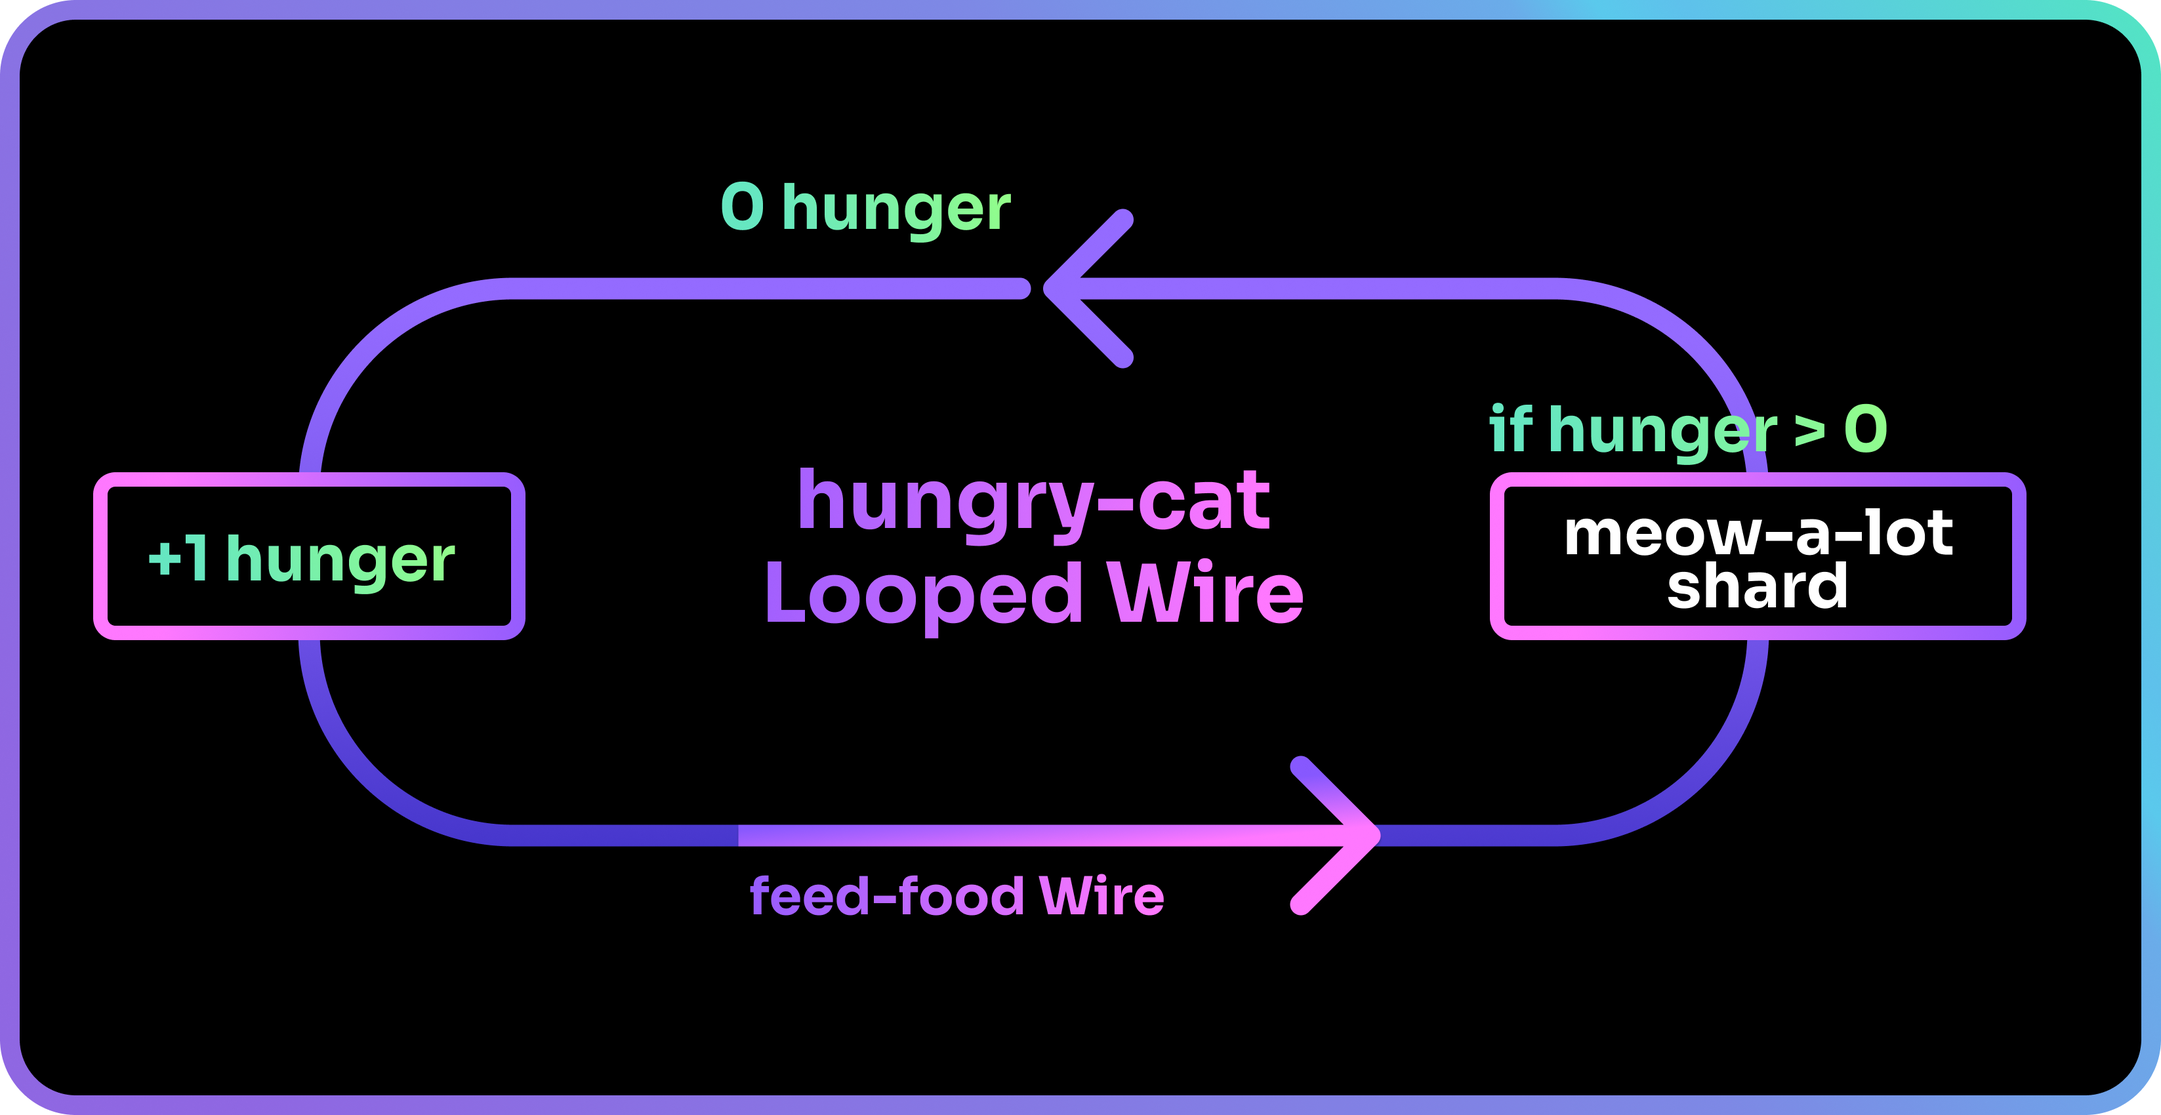
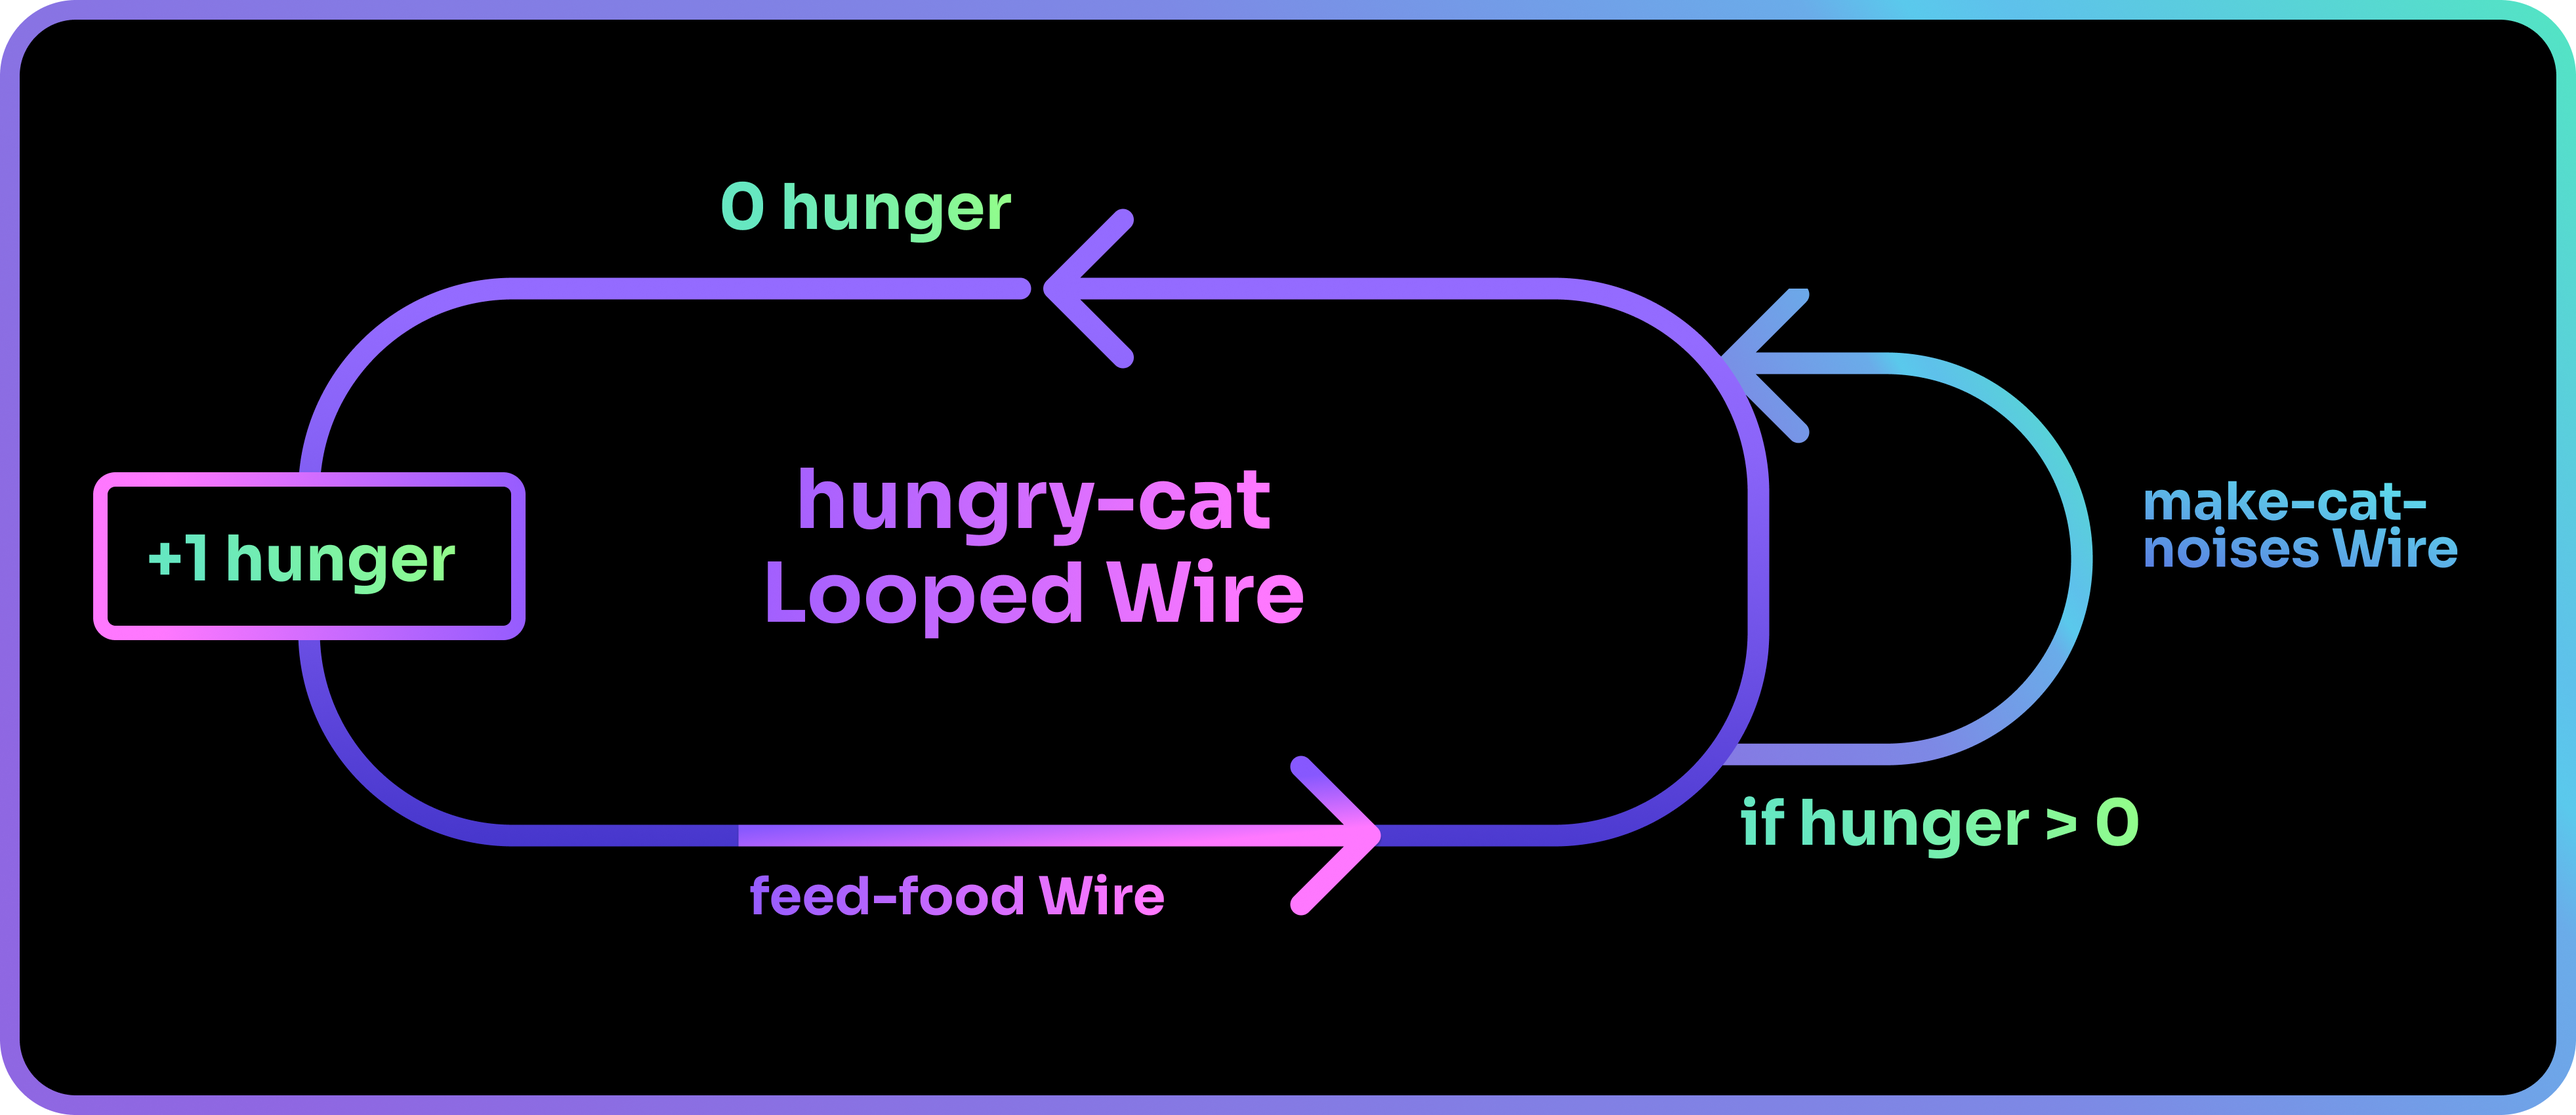
Amendments to correct the explanations on Wires and defshards - Fixed the segment on grouping shards up - Fixed the explanation on the difference between defshards and a Wire - Removed the explanation on maintaining state in Wires

diff --git a/docs/docs/learn/shards/what-is-shards.md b/docs/docs/learn/shards/what-is-shards.md
@@ -16,13 +16,21 @@ Every shard has a role and is usually named after it. For example, the shard `Ma
 
 Shards can be grouped up to form another shard. 
 
-For example, you might have a `meow` shard that prints a "meow" to the user's screen. 
+For example, you might have a `meow` shard that prints a "meow" to the user's screen, and a `mew` shard that prints a "mew" instead. 
 
-![The meow shard.](assets/meow-shard.png)
+![The meow and mew shards.](assets/meow-mew-shard.png)
 
-If you wanted to create a `meow-a-lot` shard, you could simply create a shard that contains a mixture of `meow` and `mew` shards.
+If you wanted your program to be able to make cat noises, you might have a bunch of `meow` and `mew` shards... which could end up being rather cluttered:
 
-![The meow-a-lot shard.](assets/meow-a-lot-shard.png)
+![A gathering of meow and mew shards.](assets/ungrouped-shards.png)
+
+To keep our work organized, we can group shards up to form a new shard. In our example, we can create a new `meows` shard that is made up of a few `meow` shards, and create a `mews` shard for our `mew` shards.
+
+![Grouping shards up to for a new shard.](assets/grouping-shards-up.png)
+
+When our shards are grouped up into logical segments, our program becomes more readable and orderly.
+
+![Grouping shards up into new shards helps to keep the program organized.](assets/grouped-shards.png)
 
 ## The Wire
 In the flow of a Shards program, each shard is queued for execution and will be run in the order they are presented in. The order goes from left to right, top to bottom.
@@ -35,49 +43,27 @@ Wires can be set to be loopable. This is called a **Looped Wire**.
 
 ![A Looped Wire.](assets/what-is-a-looped-wire.png)
 
-You may look at this and wonder if the `meow-a-lot` shard from before is a Wire too, since it has shards queued within it.
+You may look at this and wonder - is this the same as grouping shards together? When shards are grouped up to form a new shard, they are still executed from left to right, top to bottom after all.
 
 The answer is... no! A Wire is not the same as a shard containing shards. 
 
-Even though they might both behave like a *function* in traditional coding, they are not the same.
+A Wire queues shards for a **purpose**, while grouping shards up are for **organization**. In the earlier example, we were trying to create a program that makes cat noises. We can achieve that by queueing our shards in a Wire named `make-cat-noises`.
 
-??? "What are functions?"
+![The meows and mews shards are queued up in a Wire that makes cat noises.](assets/shards-in-wire.png)
+
+Whenever we want our program to produce cat noises, we would call the `make-cat-noises` Wire. A Wire is similar to what we call a *function* in traditional programming languages.
+
+??? "What is a function?"
     It is a block of code that can be reused over and over again.
     
     It allows you to reuse code without writing out the same block of code each time by calling the function's name instead.
 
-## To Wire or not?
 
-An easy way to understand the difference is to think of Wires as being "alive". Their states are always maintained while your code is running, and they continue to exist even after they have completed their jobs. 
+Think of shards as the different components of your program, while Wires are the lifeblood connecting the many different shards in your program, creating a Flow.
 
-On the other hand, when you call a shard, they will only exist in that moment to complete their jobs. Once done, their state is lost and they cease to exist.
+By mastering the usage of Wires, the possibilities of what you can achieve are endless!
 
-Let us look at a simple example of how Wires and shards can be used.
-
-![The feed-food Wire.](assets/feed-food-wire.png)
-
-We have a `feed-food` Wire that has a `food` variable with a starting value of 10. 
-
-??? "Variables"
-    Variables are containers that store values. You define a variable with a name, and assign a value to it. The value can then be retrieved by calling the variable with its assigned name.
-
-Every time the Wire is called, it deducts 1 food from the total. Since the Wire maintains its state even after it has been executed, the `food` value is maintained, and the value continues to fall each time the Wire is called.
-
-It also takes in a `hunger` variable as input, reduces it by 1 IF `food` is greater than 0, and returns it as an output.
-
-Next up, we have the `hungry-cat` Looped Wire. 
-
-![The hungry-cat Looped Wire.](assets/hungry-cat-loop.png)
-
-`hungry-cat` starts with `hunger` at 0, which increases as the loop runs. 
-
-It then executes `feed-food` which reduces `hunger` by 1 if the `food` variable within it is still more than 0. The loop continues running until the `feed-food` Wire runs out of `food`. The hungry cat will then start to `meow-a-lot` as it gets hungry.
-
-Since `meow-a-lot` does not require a state to be tracked, it works as a shard whose only purpose is to meow... a lot.
-
-Meanwhile, `feed-food` has to track the amount of `food` left, and thus works well as a Wire whose state persists after every run.
-
-The `hungry-cat` also has to track its `hunger`, and is thus defined as a Wire. It is made loopable so that it can continue running even after the Wire has completed its execution.
+![Wires are the lifeblood of your Shards program.](assets/hungry-cat-loop.png)
 
 ## The Mesh
 
